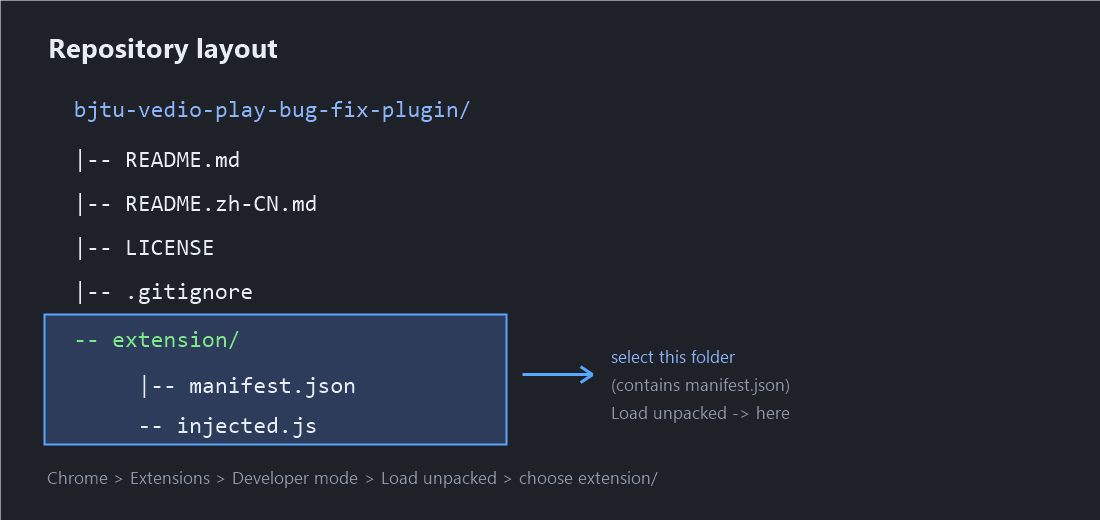
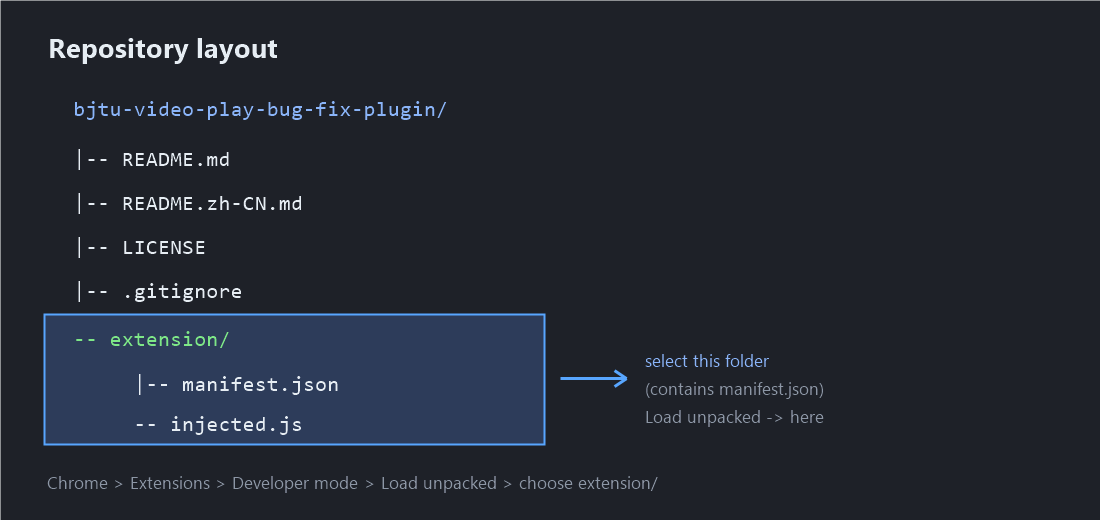
Update clone URL and layout diagram after repo rename

diff --git a/README.md b/README.md
@@ -58,7 +58,7 @@ a video can play through without being cut off.
 **1. Get the files**
 
 ```bash
-git clone https://github.com/yihui504/bjtu-vedio-play-bug-fix-plugin.git
+git clone https://github.com/yihui504/bjtu-video-play-bug-fix-plugin.git
 ```
 
 Or use **Code → Download ZIP** and unzip it. The layout looks like this:

diff --git a/README.zh-CN.md b/README.zh-CN.md
@@ -53,7 +53,7 @@
 **1. 获取文件**
 
 ```bash
-git clone https://github.com/yihui504/bjtu-vedio-play-bug-fix-plugin.git
+git clone https://github.com/yihui504/bjtu-video-play-bug-fix-plugin.git
 ```
 
 或者在仓库页点 **Code → Download ZIP** 后解压。目录结构如下：
